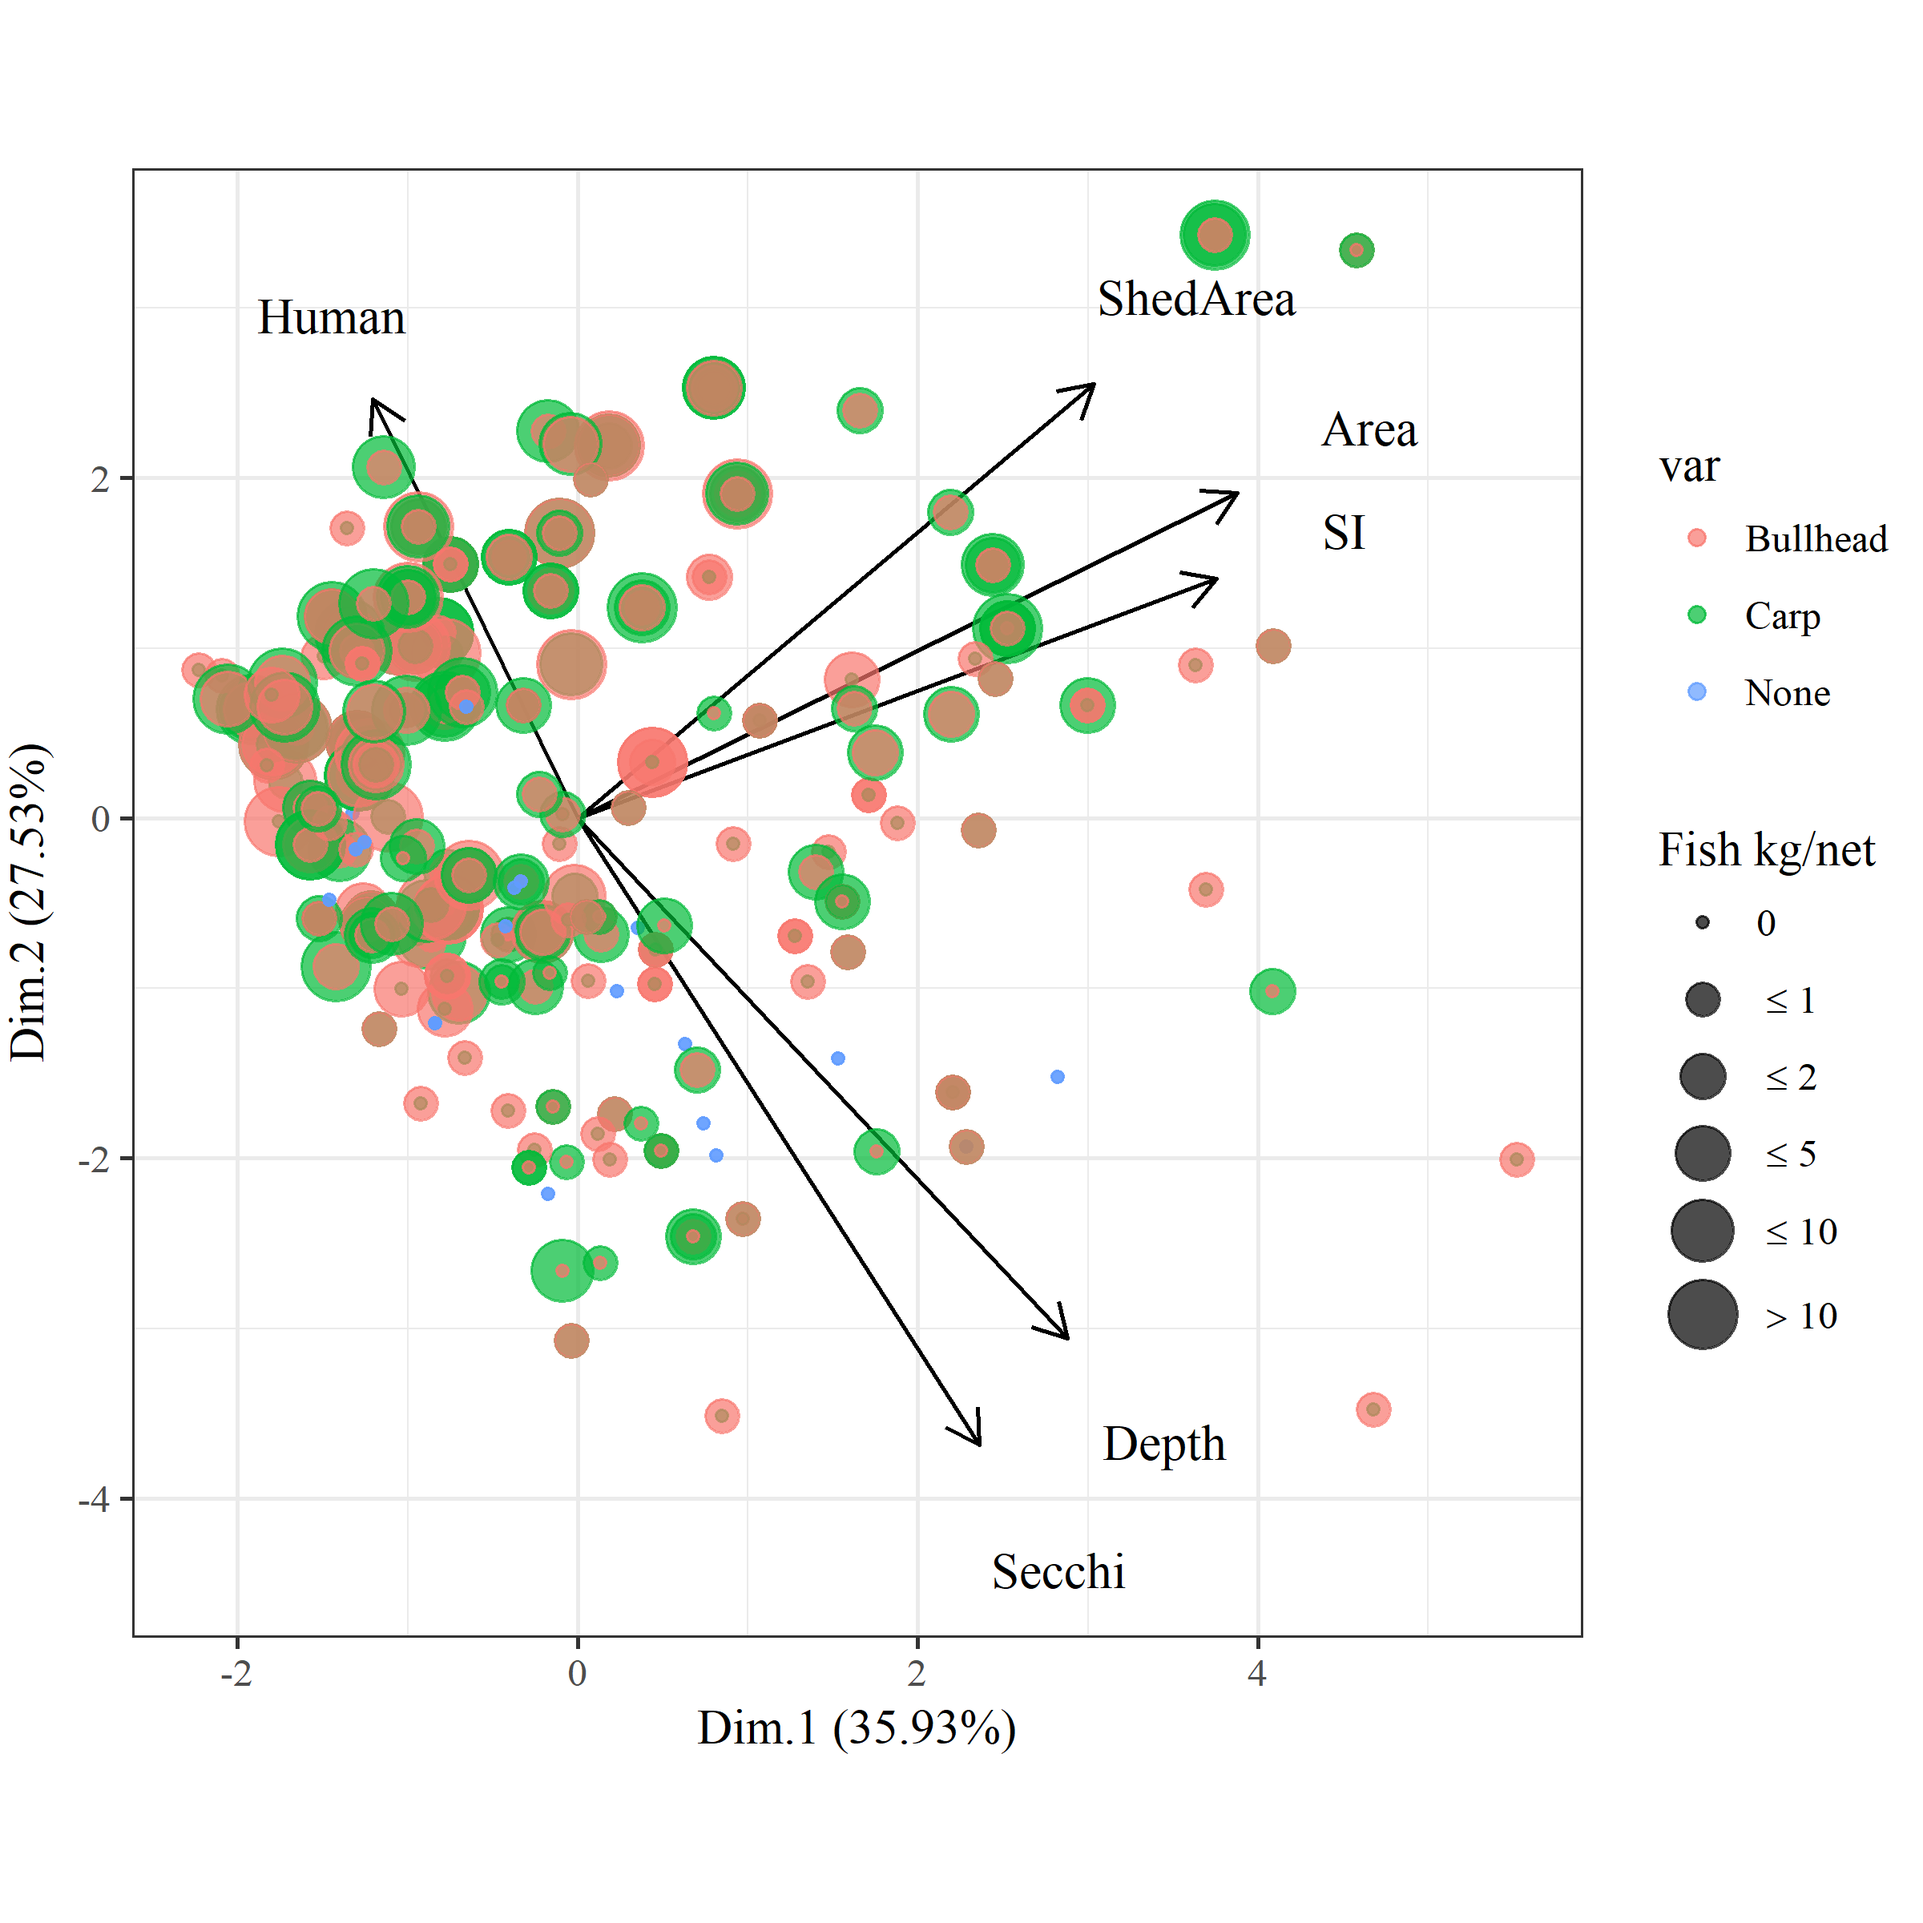
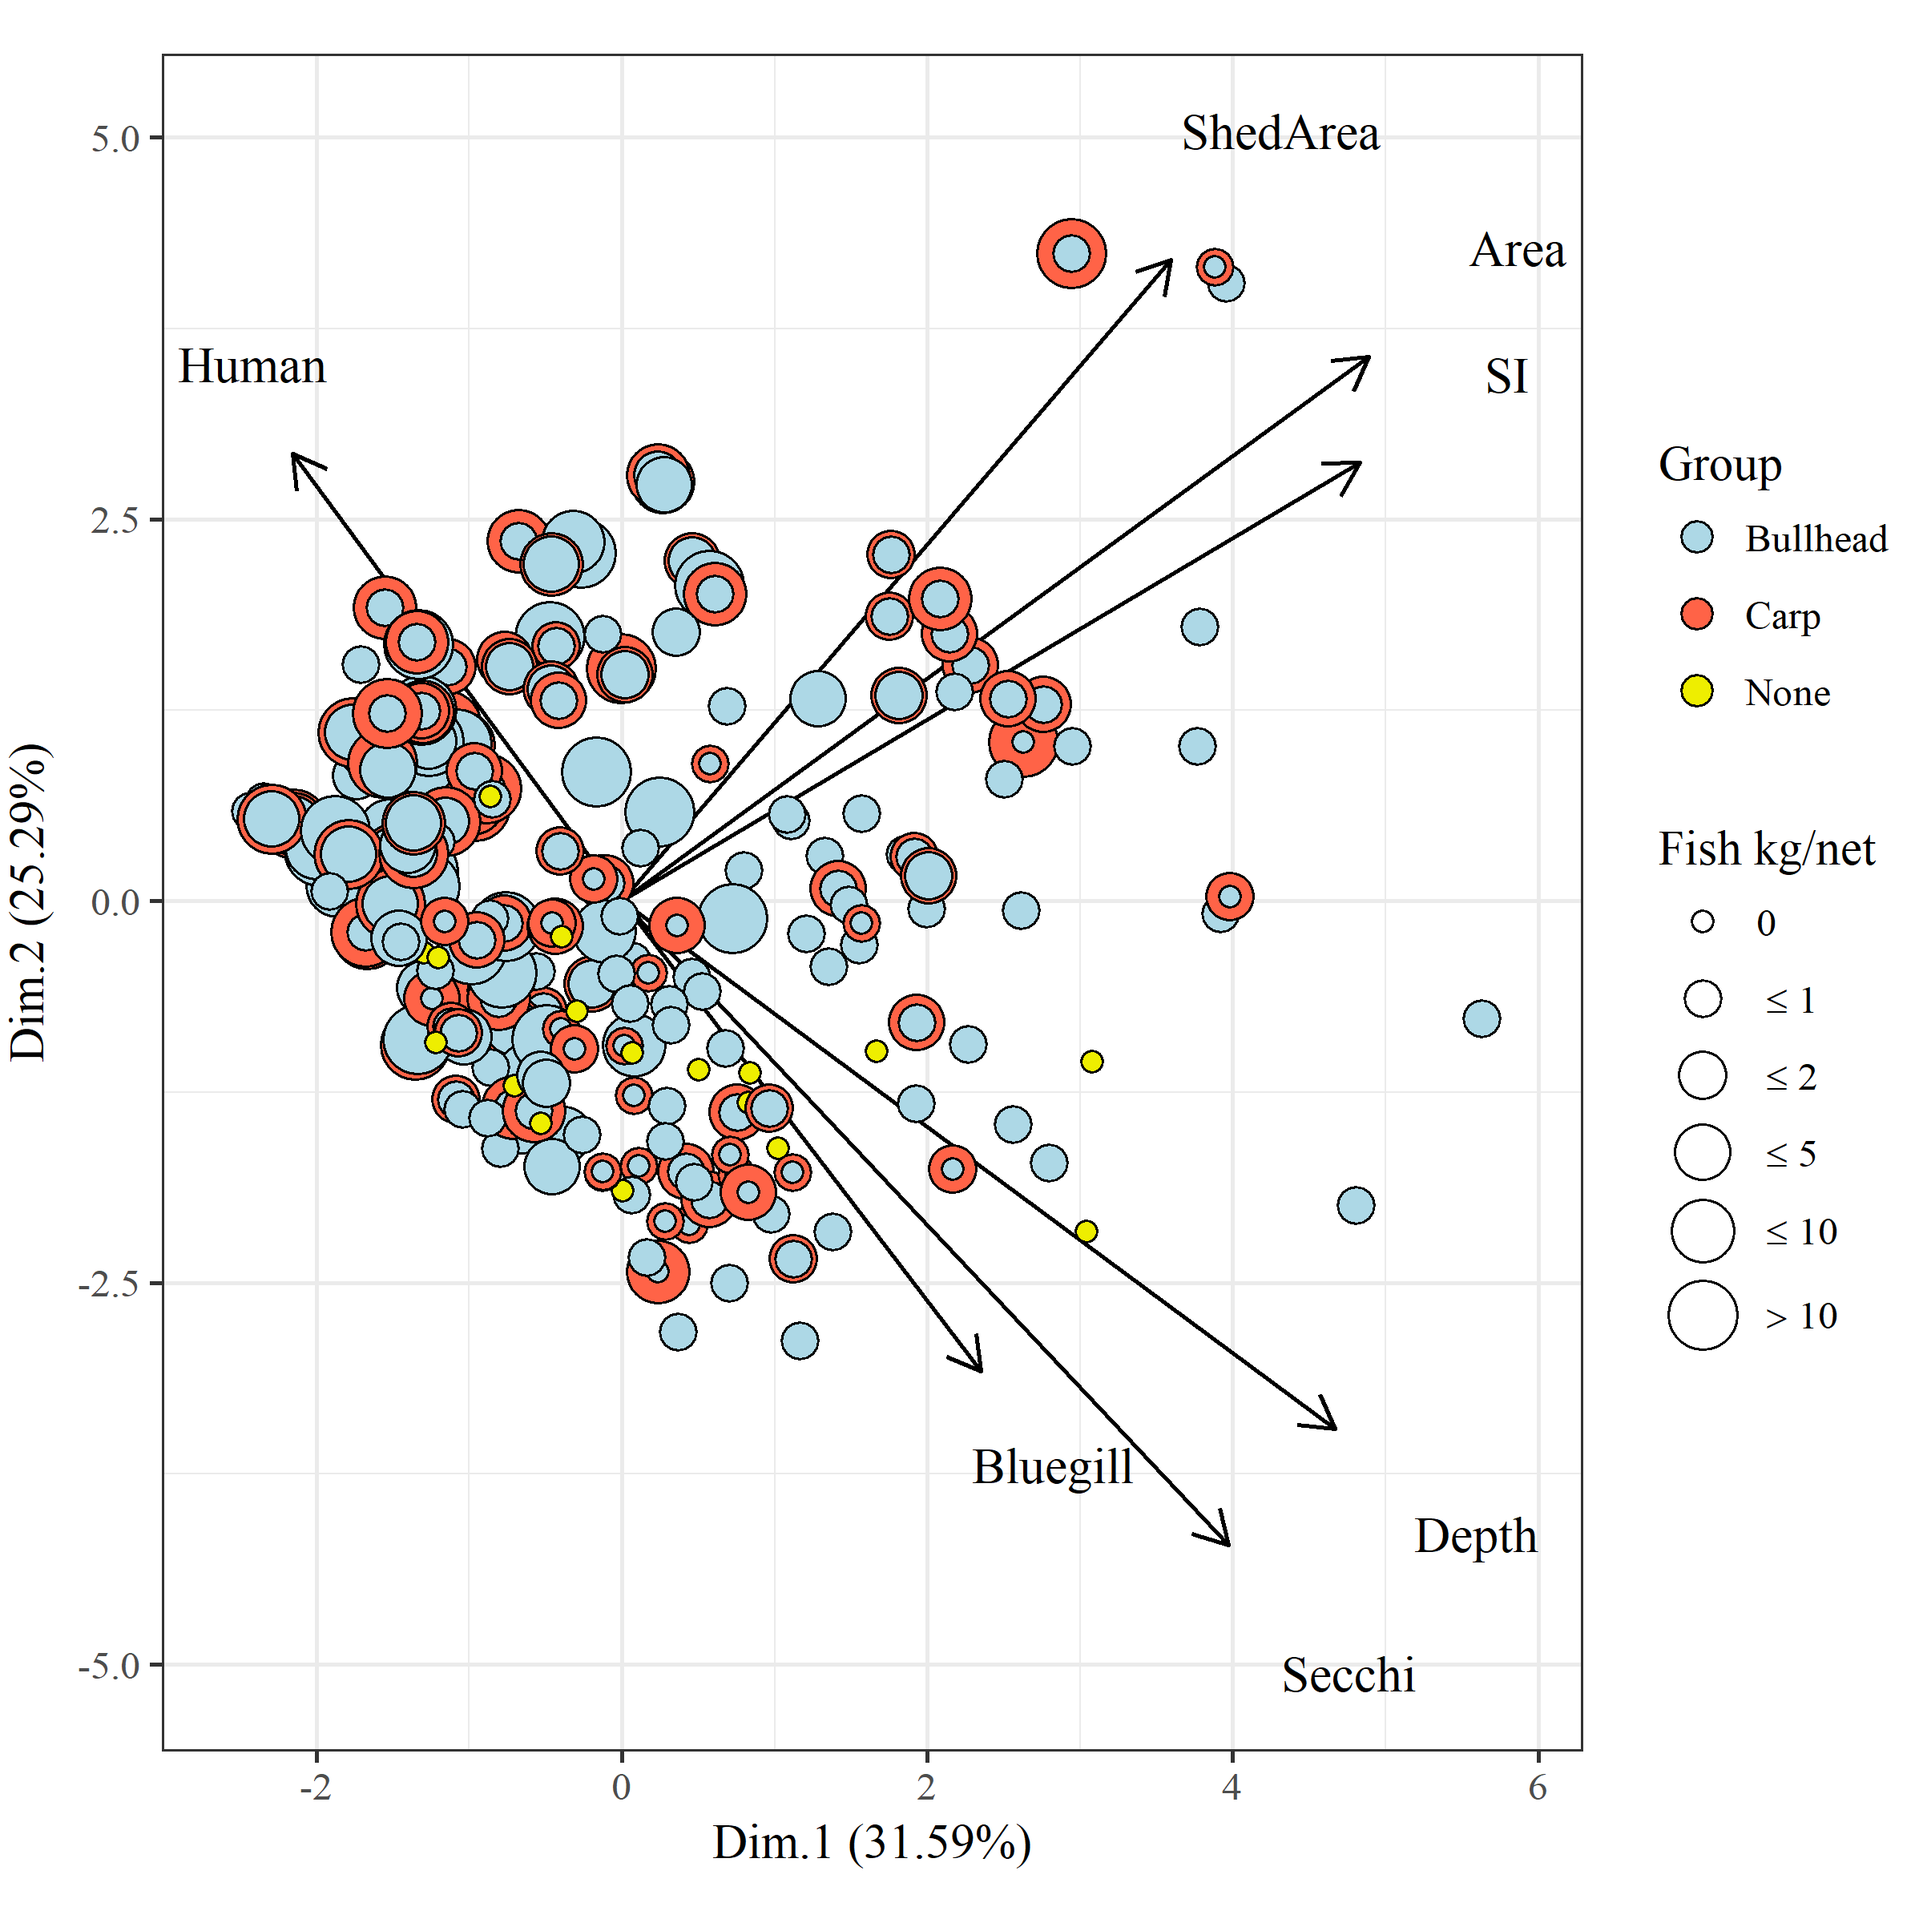
final nojit fig 3 I think

diff --git a/README.html b/README.html
@@ -312,35 +312,37 @@ $(document).ready(function () {
 <pre><code>## $Dim.1
 ## $Dim.1$quanti
 ##          correlation      p.value
-## Area       0.7773476 2.020114e-50
-## SI         0.7528458 1.138095e-45
-## ShedArea   0.6081089 5.767018e-26
-## Depth      0.5769222 5.829393e-23
-## Secchi     0.4729209 6.044316e-15
-## Human     -0.2412841 1.457969e-04
+## Area       0.7003128 3.807019e-37
+## SI         0.6913952 7.004454e-36
+## Depth      0.6681614 8.605820e-33
+## Secchi     0.5682525 3.508253e-22
+## ShedArea   0.5148838 7.483030e-18
+## Bluegill   0.3366858 7.480955e-08
+## Human     -0.3085629 9.321755e-07
 ## 
 ## 
 ## $Dim.2
 ## $Dim.2$quanti
 ##          correlation      p.value
-## ShedArea   0.5114765 1.334492e-17
-## Human      0.4935204 2.534842e-16
-## Area       0.3832484 6.366952e-10
-## SI         0.2823737 7.807990e-06
-## Depth     -0.6124036 2.093419e-26
-## Secchi    -0.7382769 4.217841e-43
+## ShedArea   0.6014935 2.666295e-25
+## Area       0.5103664 1.609032e-17
+## Human      0.4193134 9.127571e-12
+## SI         0.4108897 2.576117e-11
+## Bluegill  -0.4404832 5.903931e-13
+## Depth     -0.4946689 2.110547e-16
+## Secchi    -0.6035959 1.645328e-25
 ## 
 ## 
 ## $Dim.3
 ## $Dim.3$quanti
 ##          correlation      p.value
-## Human      0.7819274 2.238068e-51
-## Depth      0.3551340 1.239968e-08
-## Secchi     0.2384996 1.747508e-04
-## ShedArea   0.2356655 2.096728e-04
-## SI        -0.2408795 1.497050e-04</code></pre>
+## Human      0.8010119 1.271334e-55
+## Depth      0.3189660 3.777135e-07
+## ShedArea   0.2441587 1.206597e-04
+## Secchi     0.1748791 6.273497e-03
+## Bluegill   0.1491421 2.002227e-02
+## SI        -0.2379305 1.812935e-04</code></pre>
 <p><img src="README_files/figure-html/Fig3_nojit.png" width="60%" style="display: block; margin: auto;" /></p>
-<p><img src="README_files/figure-html/Fig3_jit.png" width="60%" style="display: block; margin: auto;" /></p>
 <pre><code>## 
 ## Call:
 ## mrpp(dat = tomod, grouping = d$Group) 
@@ -351,11 +353,11 @@ $(document).ready(function () {
 ## Class means and counts:
 ## 
 ##       C_abs, B_abs C_abs, B_prs C_prs, B_abs C_prs, B_prs
-## delta 2.856        3.569        3.144        2.859       
+## delta 3.103        3.904         3.34        3.161       
 ## n     20           64           28           131         
 ## 
-## Chance corrected within-group agreement A: 0.03333 
-## Based on observed delta 3.079 and expected delta 3.185 
+## Chance corrected within-group agreement A: 0.03475 
+## Based on observed delta 3.372 and expected delta 3.494 
 ## 
 ## Significance of delta: 0.001 
 ## Permutation: free

diff --git a/README.md b/README.md
@@ -84,38 +84,39 @@ GP          SpeciesRichness   3.6 (3)        13.6      0 / 16
 ## $Dim.1
 ## $Dim.1$quanti
 ##          correlation      p.value
-## Area       0.7773476 2.020114e-50
-## SI         0.7528458 1.138095e-45
-## ShedArea   0.6081089 5.767018e-26
-## Depth      0.5769222 5.829393e-23
-## Secchi     0.4729209 6.044316e-15
-## Human     -0.2412841 1.457969e-04
+## Area       0.7003128 3.807019e-37
+## SI         0.6913952 7.004454e-36
+## Depth      0.6681614 8.605820e-33
+## Secchi     0.5682525 3.508253e-22
+## ShedArea   0.5148838 7.483030e-18
+## Bluegill   0.3366858 7.480955e-08
+## Human     -0.3085629 9.321755e-07
 ## 
 ## 
 ## $Dim.2
 ## $Dim.2$quanti
 ##          correlation      p.value
-## ShedArea   0.5114765 1.334492e-17
-## Human      0.4935204 2.534842e-16
-## Area       0.3832484 6.366952e-10
-## SI         0.2823737 7.807990e-06
-## Depth     -0.6124036 2.093419e-26
-## Secchi    -0.7382769 4.217841e-43
+## ShedArea   0.6014935 2.666295e-25
+## Area       0.5103664 1.609032e-17
+## Human      0.4193134 9.127571e-12
+## SI         0.4108897 2.576117e-11
+## Bluegill  -0.4404832 5.903931e-13
+## Depth     -0.4946689 2.110547e-16
+## Secchi    -0.6035959 1.645328e-25
 ## 
 ## 
 ## $Dim.3
 ## $Dim.3$quanti
 ##          correlation      p.value
-## Human      0.7819274 2.238068e-51
-## Depth      0.3551340 1.239968e-08
-## Secchi     0.2384996 1.747508e-04
-## ShedArea   0.2356655 2.096728e-04
-## SI        -0.2408795 1.497050e-04
+## Human      0.8010119 1.271334e-55
+## Depth      0.3189660 3.777135e-07
+## ShedArea   0.2441587 1.206597e-04
+## Secchi     0.1748791 6.273497e-03
+## Bluegill   0.1491421 2.002227e-02
+## SI        -0.2379305 1.812935e-04
 ```
 
 <img src="README_files/figure-html/Fig3_nojit.png" width="60%" style="display: block; margin: auto;" />
-
-<img src="README_files/figure-html/Fig3_jit.png" width="60%" style="display: block; margin: auto;" />
 
 
 ```
@@ -129,11 +130,11 @@ GP          SpeciesRichness   3.6 (3)        13.6      0 / 16
 ## Class means and counts:
 ## 
 ##       C_abs, B_abs C_abs, B_prs C_prs, B_abs C_prs, B_prs
-## delta 2.856        3.569        3.144        2.859       
+## delta 3.103        3.904         3.34        3.161       
 ## n     20           64           28           131         
 ## 
-## Chance corrected within-group agreement A: 0.03333 
-## Based on observed delta 3.079 and expected delta 3.185 
+## Chance corrected within-group agreement A: 0.03475 
+## Based on observed delta 3.372 and expected delta 3.494 
 ## 
 ## Significance of delta: 0.001 
 ## Permutation: free
